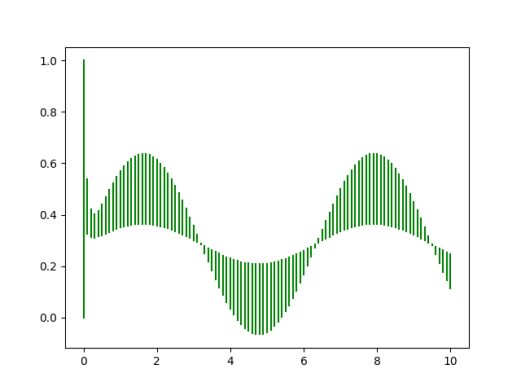
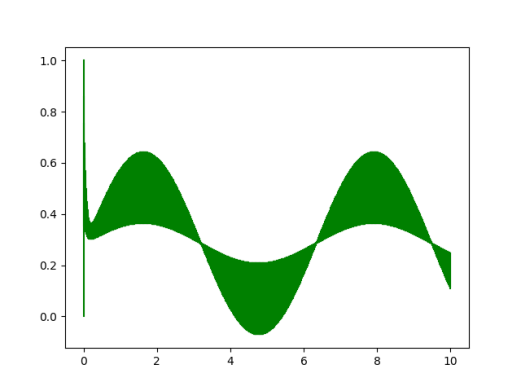
maybe done

diff --git a/design.py b/design.py
@@ -14,21 +14,21 @@ from PyQt5 import QtCore, QtGui, QtWidgets
 class Ui_MainWindow(object):
     def setupUi(self, MainWindow):
         MainWindow.setObjectName("MainWindow")
-        MainWindow.resize(1764, 979)
+        MainWindow.resize(1909, 979)
         self.centralwidget = QtWidgets.QWidget(MainWindow)
         self.centralwidget.setObjectName("centralwidget")
         self.label = QtWidgets.QLabel(self.centralwidget)
-        self.label.setGeometry(QtCore.QRect(10, 20, 21, 19))
+        self.label.setGeometry(QtCore.QRect(10, 50, 21, 19))
         self.label.setObjectName("label")
         self.N = QtWidgets.QTextEdit(self.centralwidget)
-        self.N.setGeometry(QtCore.QRect(30, 20, 140, 30))
+        self.N.setGeometry(QtCore.QRect(35, 45, 140, 30))
         self.N.setObjectName("N")
         self.start = QtWidgets.QPushButton(self.centralwidget)
-        self.start.setGeometry(QtCore.QRect(10, 160, 161, 28))
+        self.start.setGeometry(QtCore.QRect(10, 180, 161, 28))
         self.start.setObjectName("start")
         self.infoMain = QtWidgets.QTextEdit(self.centralwidget)
         self.infoMain.setEnabled(True)
-        self.infoMain.setGeometry(QtCore.QRect(0, 320, 240, 320))
+        self.infoMain.setGeometry(QtCore.QRect(10, 220, 240, 320))
         self.infoMain.setReadOnly(True)
         self.infoMain.setObjectName("infoMain")
         self.first2d = QtWidgets.QLabel(self.centralwidget)
@@ -37,52 +37,45 @@ class Ui_MainWindow(object):
         self.first2d.setObjectName("first2d")
         self.second2d = QtWidgets.QLabel(self.centralwidget)
         self.second2d.setEnabled(True)
-        self.second2d.setGeometry(QtCore.QRect(300, 450, 591, 371))
+        self.second2d.setGeometry(QtCore.QRect(279, 430, 671, 521))
         self.second2d.setText("")
         self.second2d.setObjectName("second2d")
         self.table = QtWidgets.QTableWidget(self.centralwidget)
-        self.table.setGeometry(QtCore.QRect(999, 70, 721, 341))
+        self.table.setGeometry(QtCore.QRect(810, 0, 1091, 401))
         self.table.setObjectName("table")
         self.table.setColumnCount(0)
         self.table.setRowCount(0)
         self.plane3d = QtWidgets.QLabel(self.centralwidget)
         self.plane3d.setEnabled(True)
-        self.plane3d.setGeometry(QtCore.QRect(930, 450, 821, 471))
+        self.plane3d.setGeometry(QtCore.QRect(1030, 430, 851, 521))
         self.plane3d.setText("")
         self.plane3d.setObjectName("plane3d")
         self.label_2 = QtWidgets.QLabel(self.centralwidget)
-        self.label_2.setGeometry(QtCore.QRect(10, 70, 21, 16))
+        self.label_2.setGeometry(QtCore.QRect(10, 100, 21, 16))
         self.label_2.setObjectName("label_2")
         self.M = QtWidgets.QTextEdit(self.centralwidget)
-        self.M.setGeometry(QtCore.QRect(30, 70, 140, 30))
+        self.M.setGeometry(QtCore.QRect(35, 95, 140, 30))
         self.M.setObjectName("M")
         self.label_3 = QtWidgets.QLabel(self.centralwidget)
-        self.label_3.setGeometry(QtCore.QRect(10, 120, 31, 16))
+        self.label_3.setGeometry(QtCore.QRect(10, 150, 31, 16))
         self.label_3.setObjectName("label_3")
         self.Tm = QtWidgets.QTextEdit(self.centralwidget)
-        self.Tm.setGeometry(QtCore.QRect(40, 110, 140, 30))
+        self.Tm.setGeometry(QtCore.QRect(35, 145, 140, 30))
         self.Tm.setObjectName("Tm")
         self.pushButton = QtWidgets.QPushButton(self.centralwidget)
-        self.pushButton.setGeometry(QtCore.QRect(160, 730, 93, 28))
+        self.pushButton.setGeometry(QtCore.QRect(0, 0, 131, 31))
         self.pushButton.setObjectName("pushButton")
         MainWindow.setCentralWidget(self.centralwidget)
-        self.menubar = QtWidgets.QMenuBar(MainWindow)
-        self.menubar.setGeometry(QtCore.QRect(0, 0, 1764, 26))
-        self.menubar.setObjectName("menubar")
-        self.menu = QtWidgets.QMenu(self.menubar)
-        self.menu.setObjectName("menu")
-        MainWindow.setMenuBar(self.menubar)
         self.statusbar = QtWidgets.QStatusBar(MainWindow)
         self.statusbar.setObjectName("statusbar")
         MainWindow.setStatusBar(self.statusbar)
-        self.menubar.addAction(self.menu.menuAction())
 
         self.retranslateUi(MainWindow)
         QtCore.QMetaObject.connectSlotsByName(MainWindow)
 
     def retranslateUi(self, MainWindow):
         _translate = QtCore.QCoreApplication.translate
-        MainWindow.setWindowTitle(_translate("MainWindow", "MainWindow"))
+        MainWindow.setWindowTitle(_translate("MainWindow", "Солдатов задание 10 вариант 4"))
         self.label.setText(_translate("MainWindow", "N:"))
         self.N.setHtml(_translate("MainWindow", "<!DOCTYPE HTML PUBLIC \"-//W3C//DTD HTML 4.0//EN\" \"http://www.w3.org/TR/REC-html40/strict.dtd\">\n"
 "<html><head><meta name=\"qrichtext\" content=\"1\" /><style type=\"text/css\">\n"
@@ -102,8 +95,7 @@ class Ui_MainWindow(object):
 "p, li { white-space: pre-wrap; }\n"
 "</style></head><body style=\" font-family:\'MS Shell Dlg 2\'; font-size:7.8pt; font-weight:400; font-style:normal;\">\n"
 "<p style=\" margin-top:0px; margin-bottom:0px; margin-left:0px; margin-right:0px; -qt-block-indent:0; text-indent:0px;\">10</p></body></html>"))
-        self.pushButton.setText(_translate("MainWindow", "PushButton"))
-        self.menu.setTitle(_translate("MainWindow", "Помощь"))
+        self.pushButton.setText(_translate("MainWindow", "Помощь"))
 
 
 if __name__ == "__main__":

diff --git a/ui.py b/ui.py
@@ -17,32 +17,26 @@ class ExampleApp(QtWidgets.QMainWindow, design.Ui_MainWindow):
         self.start.clicked.connect(self.drawMain)
         self.pushButton.clicked.connect(self.showHelp)
 
-        self.table.setColumnCount(5)
+        self.table.setColumnCount(7)
         self.table.setRowCount(1)
-        self.table.setHorizontalHeaderLabels(["Номер узла", "X", "V", "V*", "|V-V*|"])
+        self.table.setHorizontalHeaderLabels(["Номер узла: строка", "Номер узла: столбец", "T", "X", "V", "V*", "|V-V*|"])
         self.table.horizontalHeader().setSectionResizeMode(QtWidgets.QHeaderView.ResizeToContents)
         self.table.verticalHeader().hide()
 
 
         self.infoText = """
-Для решения задачи использована равномерная сетка с числом разбиений n = %;
+Для решения задачи использована равномерная сетка с числом разбиений по x: %, по t: % 
+0 <= x <= 1
+0 <= t <= %
+|V-V*| максимален и равен % при x=%, t = %;"""
 
-задача должна быть решена с заданной точностью ε = 0.5⋅10 –6; 
-
-задача решена с точностью ε2 = %; 
-
-максимальная разность численных решений в общих узлах сетки наблюдается в точке x=%;"""
-
-    def fillInfo(self, taskName, data):
+    def fillInfo(self, data):
         text = self.infoText
         for val in data:
             text = text.replace("%", str(val), 1)
-        if taskName == "main":
-            self.infoMain.clear()
-            self.infoMain.append(text)
-        else:
-            self.infoTest.clear()
-            self.infoTest.append(text)
+        self.infoMain.clear()
+        self.infoMain.append(text)
+
 
 
     def resizeImage(self, imageName, height):
@@ -80,9 +74,7 @@ class ExampleApp(QtWidgets.QMainWindow, design.Ui_MainWindow):
         except BaseException:
             return
 
-
-        KSR.calculate(N_, M_, Tm_)
-
+        v, x, t, v2, x2, t2 = KSR.calculate(N_, M_, Tm_)
 
         size = self.first2d.size()
         height = size.height()
@@ -102,8 +94,27 @@ class ExampleApp(QtWidgets.QMainWindow, design.Ui_MainWindow):
         pixmap = QPixmap(plane3d_)
         self.plane3d.setPixmap(pixmap)
 
+        self.clearTable(self.table)
+
+        maxabs = 0
+        maxabs_x = 0
+        maxabs_t = 0
+
+        for i in range(len(x)):
+            for j in range(len(v[i])):
+                curabs = abs(v[i][j]-v2[i][j])
+                if curabs > maxabs:
+                    maxabs = curabs
+                    maxabs_x = x[i]
+                    maxabs_t = t[j]
+                self.addRowToTable(self.table, [i, j, t[j], x[i], v[i][j], v2[i][j], abs(v[i][j]-v2[i][j])])
+
+        self.fillInfo([N_, M_, Tm_, maxabs, maxabs_x, maxabs_t])
+
+
+
+
     def showHelp(self):
-        print(100)
         subprocess.run("python helpui.py")
 
 

diff --git a/KSR.py b/KSR.py
@@ -114,11 +114,13 @@ def draw2dplot1(v, x, t):
         tlay = [t[i]] * len(x)
         plt.plot(tlay, v[i], 'green')
     plt.savefig("first2d.png")
+    plt.clf()
 
 def draw2dplot2(v, x, t):
     for i in range(len(v)):
         plt.plot(x, v[i], 'blue')
     plt.savefig("second2d.png")
+    plt.clf()
 
 def draw3d(v, x, t):
     v = np.array(v)
@@ -126,22 +128,23 @@ def draw3d(v, x, t):
     ax3d = fig.add_subplot(projection='3d')
     xgrid, tgrid = np.meshgrid(x, t)
     ax3d.plot_surface(xgrid, tgrid, v)
-
     plt.savefig("3d.png")
-    return 0
+    plt.clf()
 
-v, x, t = [], [], []
-v2, x2, t2 = [], [], []
+
+
 
 def calculate(n, m, tbound):
-    global v, x, t, x2, v2, t2
     v, x, t = start(n, m, 0, 1, 0, tbound)
-    v2, x2, t2 = start(n * 4, m * 2, 0, 1, 0, tbound)
-    # print(v[0])
+    v2, x2, t2 = start(n * 2 + 1, m * 2 + 1, 0, 1, 0, tbound)
+
     v2 = [v2[2 * i] for i in range(len(v))]
     for i in range(len(v2)):
-        v2[i] = [v2[i][4 * j] for j in range(len(v[i]))]
-    # print(v2[0])
+        v2[i] = [v2[i][2 * j] for j in range(len(v[i]))]
+
+    t2 = [t2[2 * i] for i in range(len(t))]
+    x2 = [x2[2 * i] for i in range(len(x))]
+
     diff = []
     difflay = []
     for i in range(len(v)):
@@ -152,6 +155,10 @@ def calculate(n, m, tbound):
     draw2dplot1(v, x, t)
     draw2dplot2(v, x, t)
     draw3d(v, x, t)
+
+    return v, x, t, v2, x2, t2
+
+
 
 
 

diff --git a/help.py b/help.py
@@ -34,7 +34,7 @@ class Ui_MainWindow(object):
 
     def retranslateUi(self, MainWindow):
         _translate = QtCore.QCoreApplication.translate
-        MainWindow.setWindowTitle(_translate("MainWindow", "MainWindow"))
+        MainWindow.setWindowTitle(_translate("MainWindow", "Помощь"))
         self.textEdit.setHtml(_translate("MainWindow", "<!DOCTYPE HTML PUBLIC \"-//W3C//DTD HTML 4.0//EN\" \"http://www.w3.org/TR/REC-html40/strict.dtd\">\n"
 "<html><head><meta name=\"qrichtext\" content=\"1\" /><style type=\"text/css\">\n"
 "p, li { white-space: pre-wrap; }\n"
